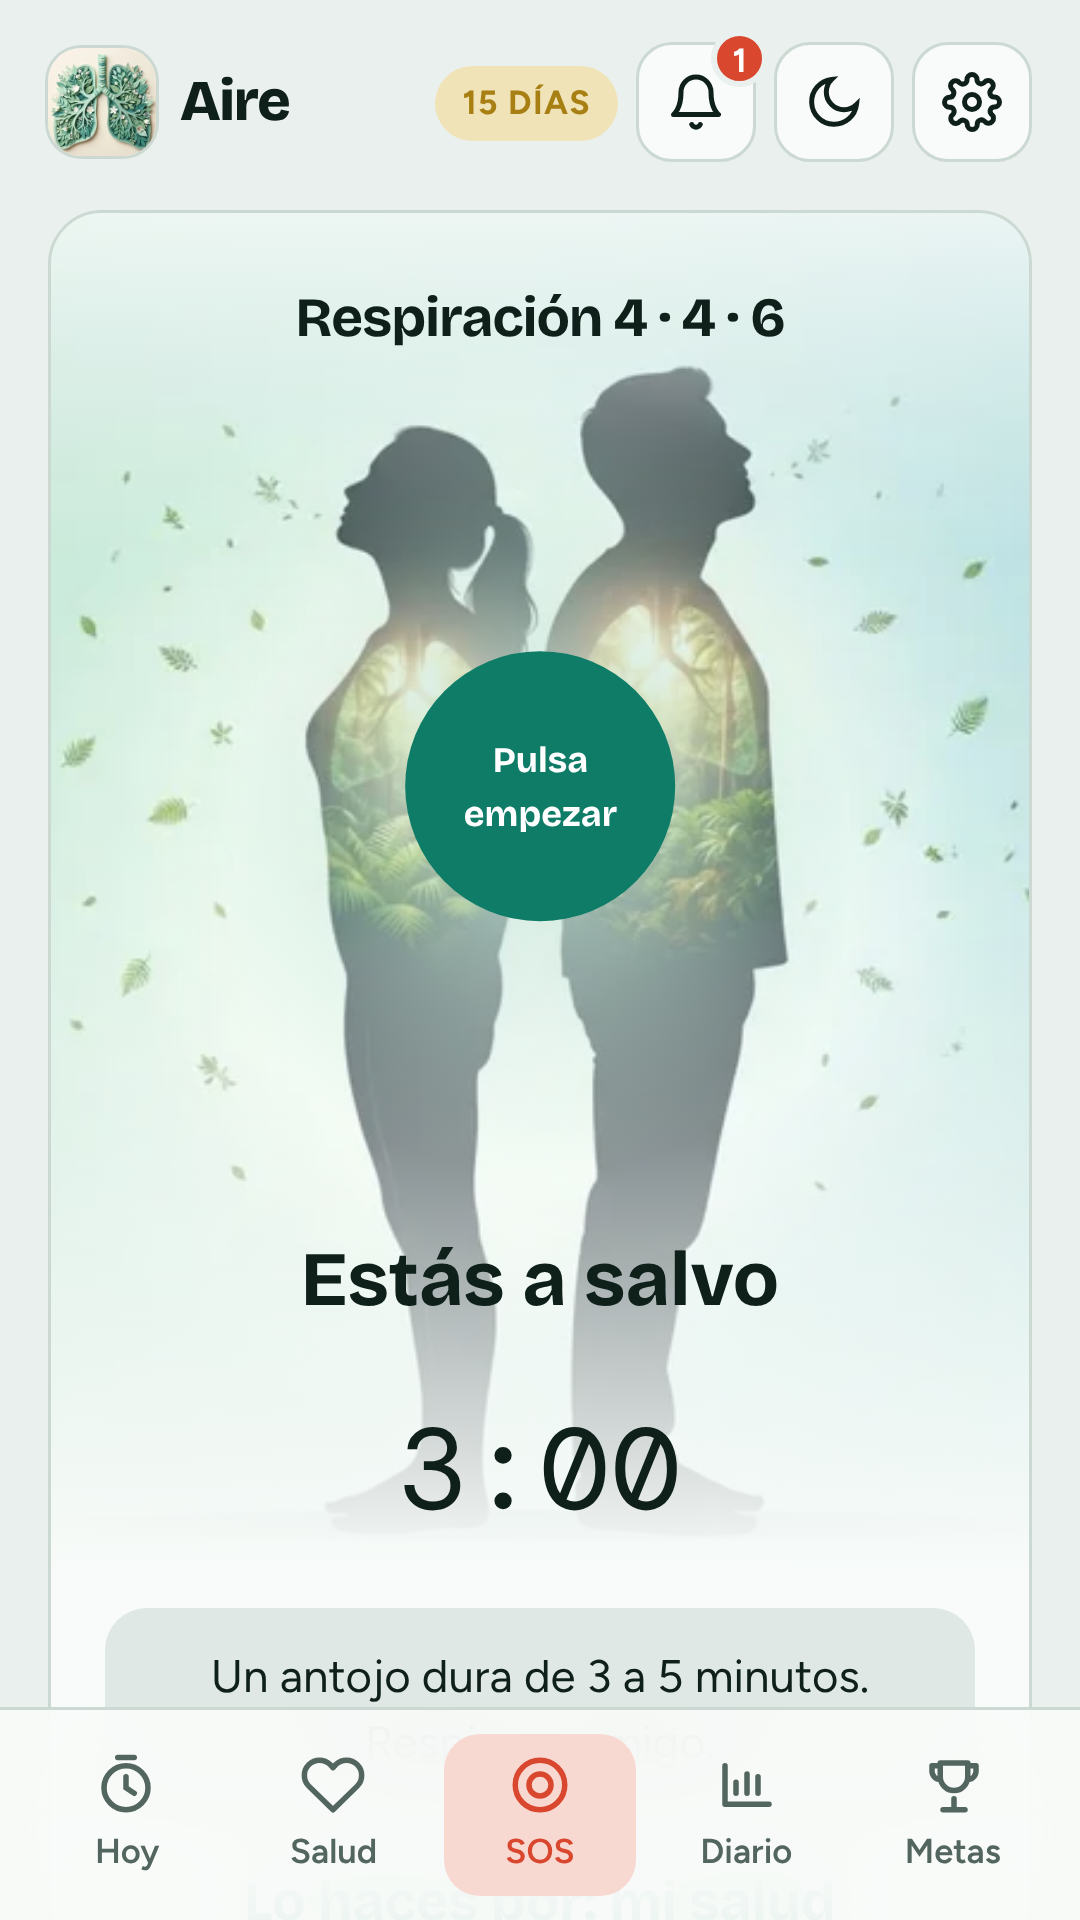
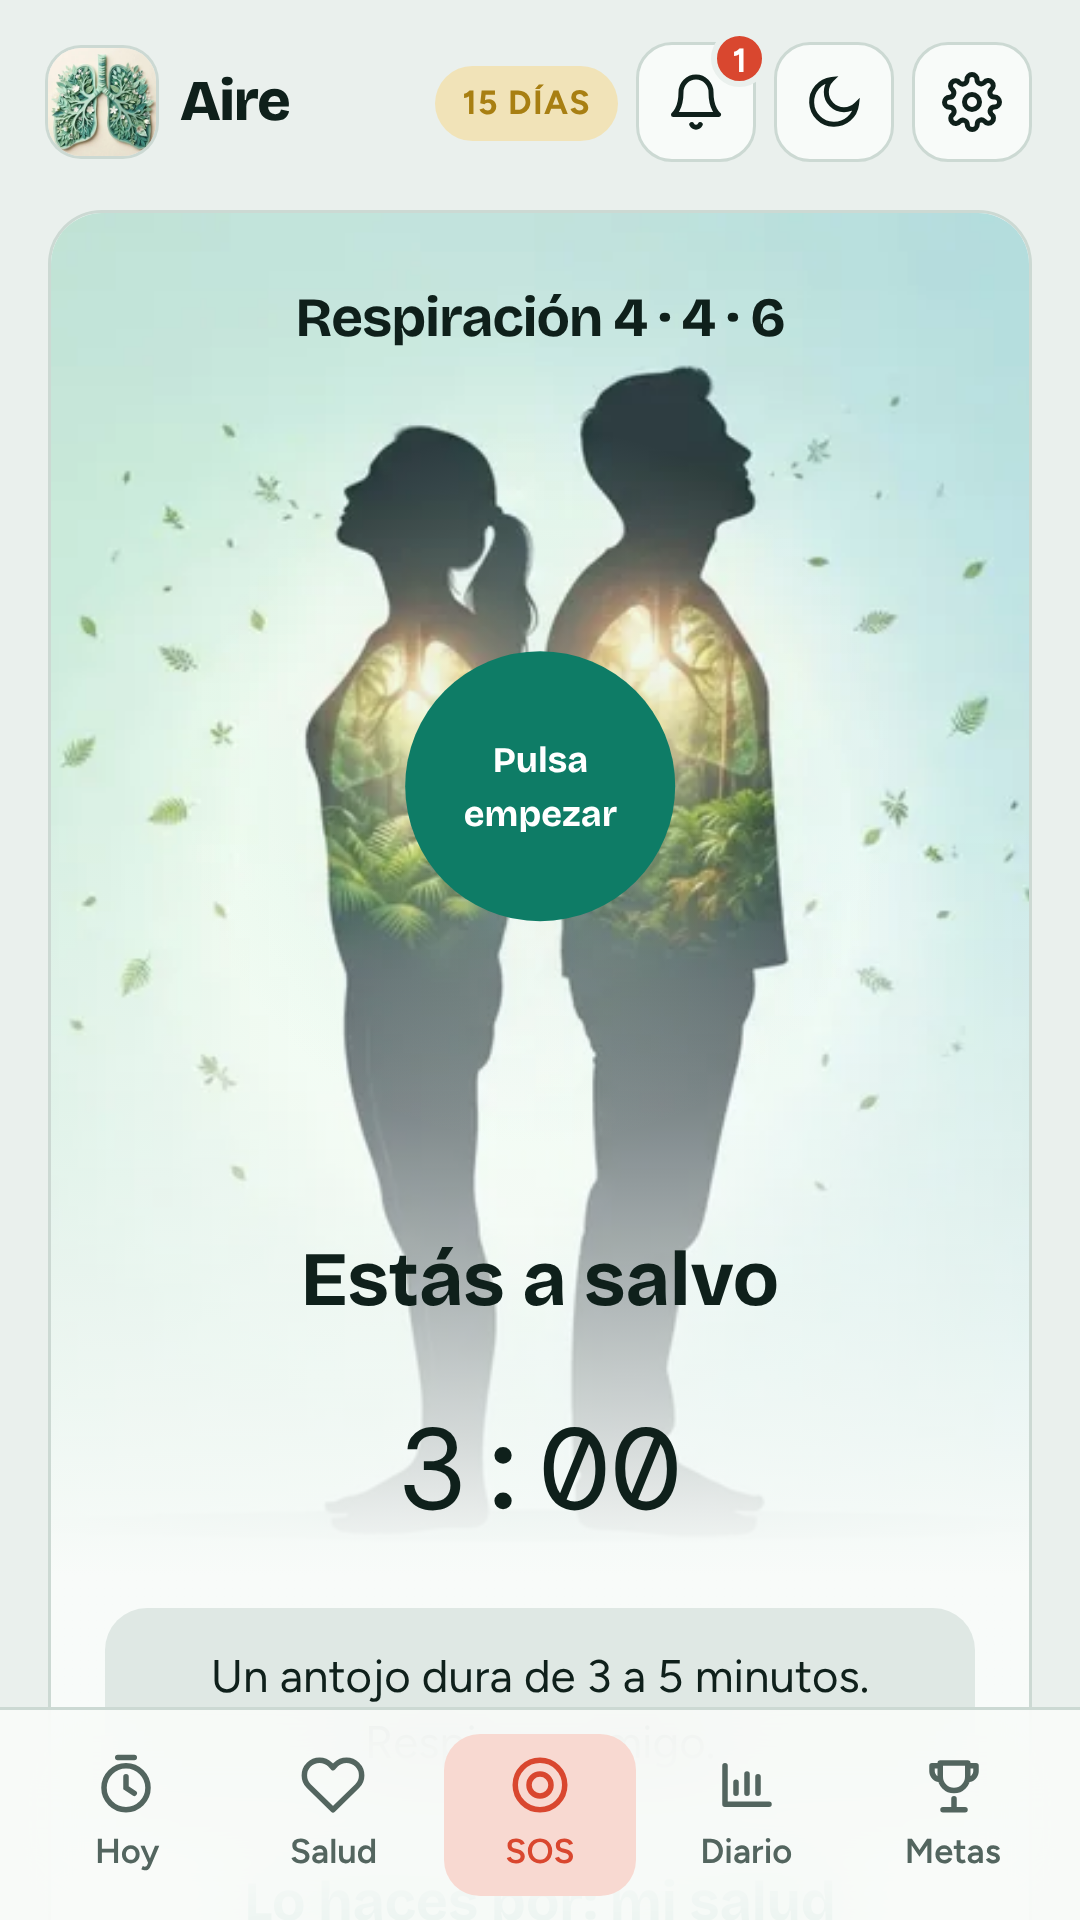
SOS: foto nítida en modo claro (fundido superior solo en oscuro, halo más suave)
Claude-Session: https://claude.ai/code/session_01MPVjHxFE6a3eHfzGQKjEna

Changed region(s): [[0.0306, 0.0938, 0.9778, 0.5625]]

diff --git a/app.html b/app.html
@@ -26,17 +26,18 @@
   --body:'Figtree', 'Helvetica Neue', Arial, system-ui, sans-serif;
   --mono:'DM Mono', ui-monospace, 'SFMono-Regular', Menlo, monospace;
   --r:18px;
+  --sos-top:transparent;
 }
 @media (prefers-color-scheme: dark){ :root:not([data-theme="light"]){
   --bg:#08120F; --surface:#101D19; --surface-2:#172823; --ink:#E4EEEA; --muted:#93A8A1; --line:#22352F;
   --accent:#4CC7A6; --accent-soft:#143A31; --on-accent:#04201A;
   --sos:#FF7559; --sos-soft:#3D1A13; --on-sos:#2A0B05;
-  --gold:#E6C25A; --gold-soft:#3A2F10; --hero:#0F4A3D; --on-hero:#E6F5EF; color-scheme:dark } }
+  --gold:#E6C25A; --gold-soft:#3A2F10; --hero:#0F4A3D; --on-hero:#E6F5EF; --sos-top:color-mix(in srgb, var(--surface) 80%, transparent); color-scheme:dark } }
 :root[data-theme="dark"]{
   --bg:#08120F; --surface:#101D19; --surface-2:#172823; --ink:#E4EEEA; --muted:#93A8A1; --line:#22352F;
   --accent:#4CC7A6; --accent-soft:#143A31; --on-accent:#04201A;
   --sos:#FF7559; --sos-soft:#3D1A13; --on-sos:#2A0B05;
-  --gold:#E6C25A; --gold-soft:#3A2F10; --hero:#0F4A3D; --on-hero:#E6F5EF; color-scheme:dark }
+  --gold:#E6C25A; --gold-soft:#3A2F10; --hero:#0F4A3D; --on-hero:#E6F5EF; --sos-top:color-mix(in srgb, var(--surface) 80%, transparent); color-scheme:dark }
 
 *{box-sizing:border-box}
 html,body{height:100%}
@@ -122,9 +123,9 @@ a{color:var(--accent)}
 .breath{display:flex; flex-direction:column; align-items:center; gap:16px; padding:26px 18px}
 .breath{position:relative; overflow:hidden; isolation:isolate}
 .breath::before{content:""; position:absolute; inset:0 0 auto 0; height:72%; z-index:-1; background:url('../img/portada-pareja-900.webp') center 18% / cover no-repeat}
-.breath::after{content:""; position:absolute; inset:0; z-index:-1; background:linear-gradient(180deg, color-mix(in srgb, var(--surface) 80%, transparent) 0%, transparent 17%, transparent 30%, color-mix(in srgb, var(--surface) 55%, transparent) 50%, var(--surface) 68%)}
+.breath::after{content:""; position:absolute; inset:0; z-index:-1; background:linear-gradient(180deg, var(--sos-top) 0%, transparent 17%, transparent 30%, color-mix(in srgb, var(--surface) 55%, transparent) 50%, var(--surface) 68%)}
 .lung{position:relative; width:min(72vw, 260px); aspect-ratio:1; max-width:100%; display:grid; place-items:center}
-.lung .halo{position:absolute; inset:0; border-radius:50%; background:radial-gradient(circle, var(--accent-soft) 0%, transparent 70%)}
+.lung .halo{position:absolute; inset:0; border-radius:50%; background:radial-gradient(circle, color-mix(in srgb, var(--accent-soft) 45%, transparent) 0%, transparent 65%)}
 .lung .core{width:58%; aspect-ratio:1; border-radius:50%; background:var(--accent); transform:scale(.6); transition:transform 4s cubic-bezier(.45,0,.3,1); display:grid; place-items:center; color:var(--on-accent); font-family:var(--display); font-weight:700; font-size:1.1rem; text-align:center; padding:10px}
 .phase{font-family:var(--display); font-size:1.6rem; font-weight:700}
 .countdown{font-family:var(--mono); font-size:2.4rem; letter-spacing:.02em}

diff --git a/app/index.html b/app/index.html
@@ -33,17 +33,18 @@
   --body:'Figtree', 'Helvetica Neue', Arial, system-ui, sans-serif;
   --mono:'DM Mono', ui-monospace, 'SFMono-Regular', Menlo, monospace;
   --r:18px;
+  --sos-top:transparent;
 }
 @media (prefers-color-scheme: dark){ :root:not([data-theme="light"]){
   --bg:#08120F; --surface:#101D19; --surface-2:#172823; --ink:#E4EEEA; --muted:#93A8A1; --line:#22352F;
   --accent:#4CC7A6; --accent-soft:#143A31; --on-accent:#04201A;
   --sos:#FF7559; --sos-soft:#3D1A13; --on-sos:#2A0B05;
-  --gold:#E6C25A; --gold-soft:#3A2F10; --hero:#0F4A3D; --on-hero:#E6F5EF; color-scheme:dark } }
+  --gold:#E6C25A; --gold-soft:#3A2F10; --hero:#0F4A3D; --on-hero:#E6F5EF; --sos-top:color-mix(in srgb, var(--surface) 80%, transparent); color-scheme:dark } }
 :root[data-theme="dark"]{
   --bg:#08120F; --surface:#101D19; --surface-2:#172823; --ink:#E4EEEA; --muted:#93A8A1; --line:#22352F;
   --accent:#4CC7A6; --accent-soft:#143A31; --on-accent:#04201A;
   --sos:#FF7559; --sos-soft:#3D1A13; --on-sos:#2A0B05;
-  --gold:#E6C25A; --gold-soft:#3A2F10; --hero:#0F4A3D; --on-hero:#E6F5EF; color-scheme:dark }
+  --gold:#E6C25A; --gold-soft:#3A2F10; --hero:#0F4A3D; --on-hero:#E6F5EF; --sos-top:color-mix(in srgb, var(--surface) 80%, transparent); color-scheme:dark }
 
 *{box-sizing:border-box}
 html,body{height:100%}
@@ -129,9 +130,9 @@ a{color:var(--accent)}
 .breath{display:flex; flex-direction:column; align-items:center; gap:16px; padding:26px 18px}
 .breath{position:relative; overflow:hidden; isolation:isolate}
 .breath::before{content:""; position:absolute; inset:0 0 auto 0; height:72%; z-index:-1; background:url('../img/portada-pareja-900.webp') center 18% / cover no-repeat}
-.breath::after{content:""; position:absolute; inset:0; z-index:-1; background:linear-gradient(180deg, color-mix(in srgb, var(--surface) 80%, transparent) 0%, transparent 17%, transparent 30%, color-mix(in srgb, var(--surface) 55%, transparent) 50%, var(--surface) 68%)}
+.breath::after{content:""; position:absolute; inset:0; z-index:-1; background:linear-gradient(180deg, var(--sos-top) 0%, transparent 17%, transparent 30%, color-mix(in srgb, var(--surface) 55%, transparent) 50%, var(--surface) 68%)}
 .lung{position:relative; width:min(72vw, 260px); aspect-ratio:1; max-width:100%; display:grid; place-items:center}
-.lung .halo{position:absolute; inset:0; border-radius:50%; background:radial-gradient(circle, var(--accent-soft) 0%, transparent 70%)}
+.lung .halo{position:absolute; inset:0; border-radius:50%; background:radial-gradient(circle, color-mix(in srgb, var(--accent-soft) 45%, transparent) 0%, transparent 65%)}
 .lung .core{width:58%; aspect-ratio:1; border-radius:50%; background:var(--accent); transform:scale(.6); transition:transform 4s cubic-bezier(.45,0,.3,1); display:grid; place-items:center; color:var(--on-accent); font-family:var(--display); font-weight:700; font-size:1.1rem; text-align:center; padding:10px}
 .phase{font-family:var(--display); font-size:1.6rem; font-weight:700}
 .countdown{font-family:var(--mono); font-size:2.4rem; letter-spacing:.02em}

diff --git a/app/sw.js b/app/sw.js
@@ -1,5 +1,5 @@
 // Aire · funciona sin conexión: guarda la app en caché y la sirve aunque no haya red.
-const CACHE = 'aire-v10';
+const CACHE = 'aire-v11';
 const SHELL = ['./', './index.html', './manifest.webmanifest', './icon.svg', './icon-192.png', './icon-512.png', '../img/airi-feliz.webp', '../img/airi-celebra.webp', '../img/airi-medalla.webp', '../img/pulmones.webp', '../img/logo-pulmones.webp', '../img/portada-pareja-900.webp', '../img/portada-fusionada-900.webp'];
 
 self.addEventListener('install', e => {
